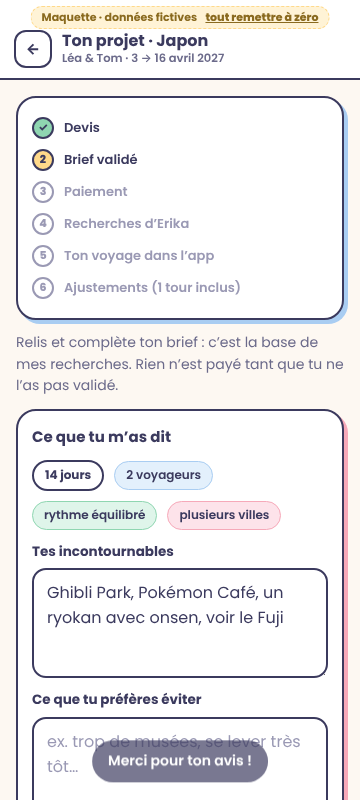
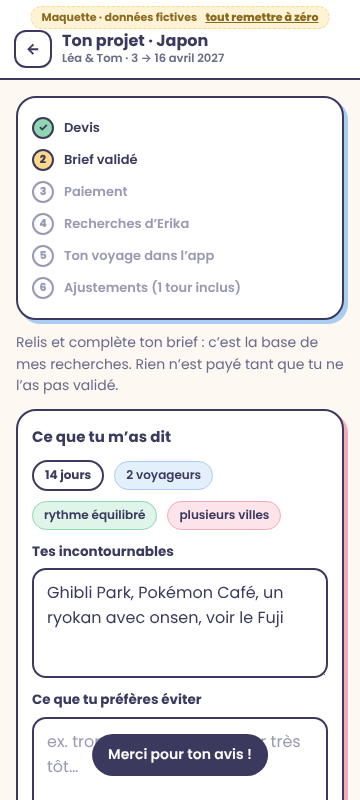
Maquette : message « Nouvelle version disponible » pour mettre à jour l'app
- sw.js porte un numéro de VERSION; une nouvelle version s'installe en
  arrière-plan et attend que la personne touche « Mettre à jour »
- version.json liste les nouveautés affichées dans le message (toujours
  lu en ligne d'abord)
- L'app vérifie les mises à jour à chaque retour dans l'app, recharge
  après l'accord et confirme « App mise à jour ✓ »; les voyages et les
  coches sont gardés

Claude-Session: https://claude.ai/code/session_01B9MNc6DfG4VHjw1PqFqXHn

Changed region(s): [[0.2444, 0.9062, 0.7639, 1.0]]

diff --git a/maquette/sw.js b/maquette/sw.js
@@ -1,8 +1,13 @@
 /* HodoPlanner (maquette) · fonctionne hors connexion : les fichiers de l'app sont gardés en cache,
    les pages sont d'abord demandées au réseau pour toujours avoir la dernière version. */
-const CACHE = "hodo-maquette-v3";
+/* Pour publier une mise à jour de l'app :
+   1. change VERSION ci-dessous,
+   2. mets le même numéro et la liste des nouveautés dans version.json.
+   À la prochaine ouverture, chaque voyageur verra « Nouvelle version disponible ». */
+const VERSION = "2026.10.16-1";
+const CACHE = "hodo-maquette-" + VERSION;
 const FILES = [
-  "./", "./index.html", "./manifest.webmanifest",
+  "./", "./index.html", "./manifest.webmanifest", "./version.json",
   "../assets/planner.css", "../assets/icons.js", "../assets/rules.js",
   "../assets/vendor/leaflet/leaflet.js", "../assets/vendor/leaflet/leaflet.css",
   "../images/brand/lapin-carte.svg", "../images/brand/lapin-pattes.svg", "../images/brand/lapin-logo.svg",
@@ -10,10 +15,14 @@ const FILES = [
 ];
 
 self.addEventListener("install", (e) => {
-  e.waitUntil(caches.open(CACHE).then((c) => c.addAll(FILES)).then(() => self.skipWaiting()));
+  // Pas de skipWaiting ici : la nouvelle version attend que la personne touche « Mettre à jour ».
+  e.waitUntil(caches.open(CACHE).then((c) => c.addAll(FILES)));
+});
+self.addEventListener("message", (e) => {
+  if (e.data === "SKIP_WAITING") self.skipWaiting();
 });
 self.addEventListener("activate", (e) => {
-  e.waitUntil(caches.keys().then((keys) => Promise.all(keys.filter((k) => k !== CACHE).map((k) => caches.delete(k)))).then(() => self.clients.claim()));
+  e.waitUntil(caches.keys().then((keys) => Promise.all(keys.filter((k) => k !== CACHE && k !== "hodo-maquette-tiles").map((k) => caches.delete(k)))).then(() => self.clients.claim()));
 });
 self.addEventListener("fetch", (e) => {
   const req = e.request;
@@ -21,16 +30,16 @@ self.addEventListener("fetch", (e) => {
   const url = new URL(req.url);
   // Tuiles de carte : réseau, puis cache (pour revoir une carte déjà affichée sans réseau)
   if (url.hostname.endsWith("basemaps.cartocdn.com")) {
-    e.respondWith(caches.open(CACHE + "-tiles").then(async (c) => {
+    e.respondWith(caches.open("hodo-maquette-tiles").then(async (c) => {
       try { const r = await fetch(req); if (r.ok) c.put(req, r.clone()); return r; }
       catch (_) { return (await c.match(req)) || Response.error(); }
     }));
     return;
   }
   if (url.origin !== location.origin) return;
-  // Pages : réseau d'abord ; fichiers : cache d'abord
-  if (req.mode === "navigate") {
-    e.respondWith(fetch(req).then((r) => { const copy = r.clone(); caches.open(CACHE).then((c) => c.put(req, copy)); return r; }).catch(() => caches.match("./index.html")));
+  // Pages et version.json : réseau d'abord ; autres fichiers : cache d'abord
+  if (req.mode === "navigate" || url.pathname.endsWith("/version.json")) {
+    e.respondWith(fetch(req).then((r) => { const copy = r.clone(); caches.open(CACHE).then((c) => c.put(req, copy)); return r; }).catch(async () => (await caches.match(req)) || caches.match("./index.html")));
   } else {
     e.respondWith(caches.match(req).then((hit) => hit || fetch(req)));
   }

diff --git a/maquette/index.html b/maquette/index.html
@@ -981,7 +981,43 @@
     document.getElementById("reset").onclick = () => { db = SEED(); save(); ui = freshUi(); render(); toast("Maquette remise à zéro"); };
 
     render();
-    if ("serviceWorker" in navigator) navigator.serviceWorker.register("sw.js").catch(() => {});
+    // ============ Mises à jour de l'app ============
+    // Une nouvelle version (sw.js + version.json) s'installe en arrière-plan ; à l'ouverture,
+    // la personne voit ce qui change et choisit « Mettre à jour ».
+    const VKEY = "hodo-app-version";
+    const getVersion = () => fetch("version.json", { cache: "no-store" }).then((r) => r.json()).catch(() => null);
+    let updating = false;
+    function showUpdate(worker) {
+      getVersion().then((v) => {
+        const notes = v && v.notes ? v.notes : [];
+        showSheet(`
+          <div style="text-align:center">${icon("bunnypaws", 90)}</div>
+          <h2 style="text-align:center">Nouvelle version disponible ✨</h2>
+          ${notes.length ? `<ul style="margin:12px 0;padding-left:20px;display:grid;gap:6px;font-size:14px">${notes.map((n) => `<li>${esc(n)}</li>`).join("")}</ul>` : ""}
+          <p class="small" style="text-align:center;margin-bottom:12px">Ton voyage et tes coches sont gardés.</p>
+          <div class="stack"><button class="btn dark block" id="doUpdate">Mettre à jour</button><button class="btn block" id="later">Plus tard</button></div>`);
+        document.getElementById("doUpdate").onclick = () => {
+          updating = true;
+          try { sessionStorage.setItem(VKEY, "1"); } catch (_) {}
+          worker.postMessage("SKIP_WAITING");
+        };
+        document.getElementById("later").onclick = closeSheet;
+      });
+    }
+    if ("serviceWorker" in navigator) {
+      navigator.serviceWorker.addEventListener("controllerchange", () => { if (updating) location.reload(); });
+      navigator.serviceWorker.register("sw.js").then((reg) => {
+        if (reg.waiting && navigator.serviceWorker.controller) showUpdate(reg.waiting);
+        reg.addEventListener("updatefound", () => {
+          const nw = reg.installing;
+          nw.addEventListener("statechange", () => { if (nw.state === "installed" && navigator.serviceWorker.controller) showUpdate(nw); });
+        });
+        // vérifie s'il y a du nouveau à chaque retour dans l'app
+        document.addEventListener("visibilitychange", () => { if (document.visibilityState === "visible") reg.update().catch(() => {}); });
+      }).catch(() => {});
+      // Juste après une mise à jour : petit message de confirmation
+      try { if (sessionStorage.getItem(VKEY)) { sessionStorage.removeItem(VKEY); setTimeout(() => toast("App mise à jour ✓"), 300); } } catch (_) {}
+    }
   })();
   </script>
 </body>
